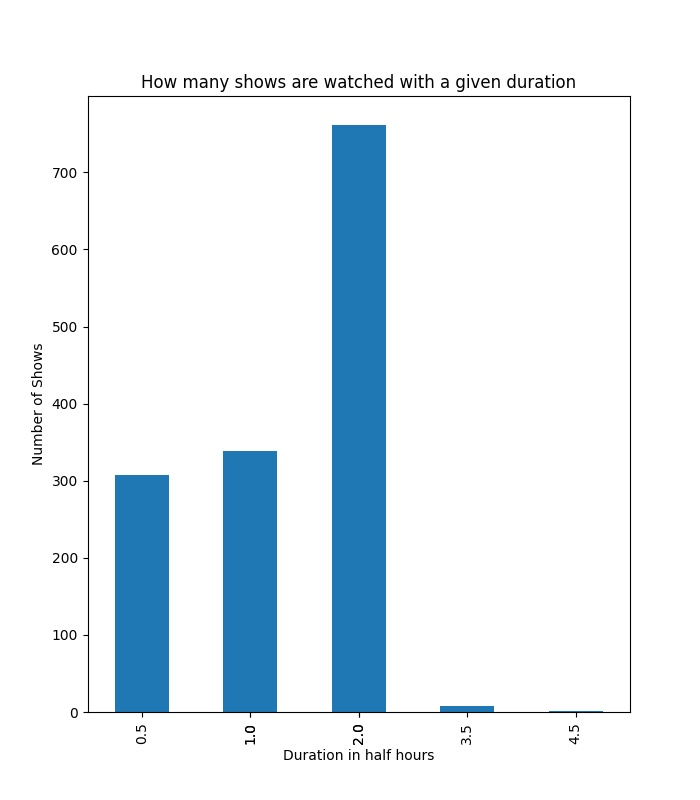
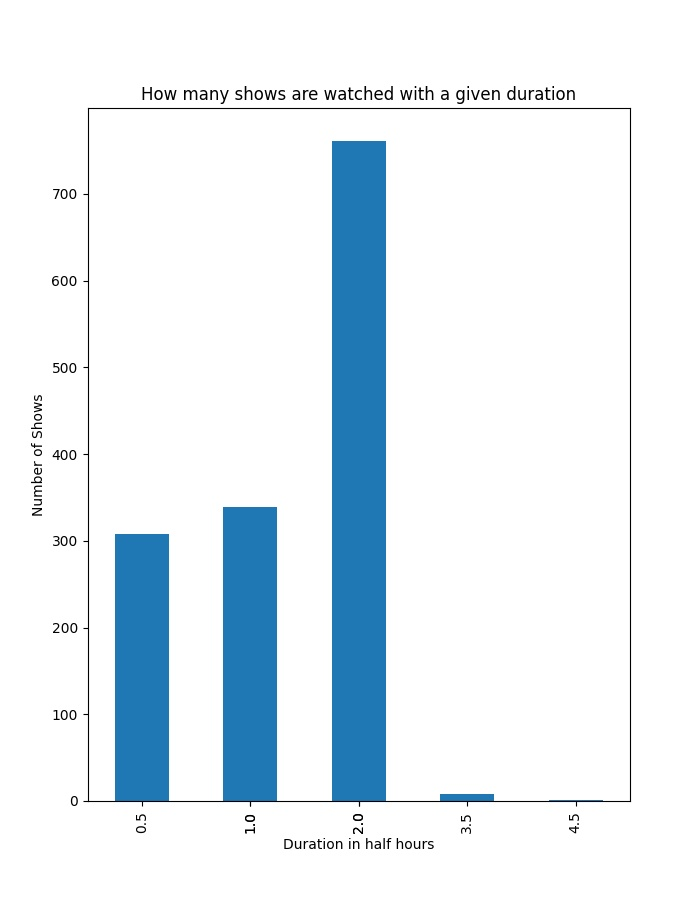
Prototype Refresh all button

diff --git a/dvrmediaanalysis.py b/dvrmediaanalysis.py
@@ -34,10 +34,11 @@ class MyWindow(QtWidgets.QMainWindow, Ui_MainWindow):
         self.speed_time_dataframe = self.set_types(self.dict_to_dataframe(self.cleanup_speed_times(self.speed_time_dict)))
         # Graph variables
         self.main_graph_dict = self.get_data_json(graph_file_name)
-        self.single_graph_labels_dict = {} # All of the variables from the graph skeleton is in here.
+        self.single_graph_labels_dict = {}  # All of the variables from the graph skeleton is in here.
         # Functions
         self.graph_options()
         self.build_graph_button.clicked.connect(self.build_graph)
+        self.build_all_graphs_button.clicked.connect(self.build_all_graphs)
         self.graph_list.clicked.connect(self.choose_graph)
 
     def graph_options(self):
@@ -219,7 +220,7 @@ class MyWindow(QtWidgets.QMainWindow, Ui_MainWindow):
         """Build a bar graph."""
         # Plot and label bar graph
         new_dataframe.fillna(0).plot(
-            kind='bar', figsize=(7, 8),
+            kind='bar', figsize=(7, 9),
             title=self.single_graph_labels_dict["Title"],
             xlabel=self.single_graph_labels_dict["X-Label"],
             ylabel=self.single_graph_labels_dict["Y-Label"])
@@ -304,6 +305,16 @@ class MyWindow(QtWidgets.QMainWindow, Ui_MainWindow):
             else:
                 # Should never reach here
                 pass
+
+    def build_all_graphs(self):
+        """Build all graphs"""
+        # print("Graph skeletons: ", self.main_graph_dict)
+        #for graph_name in self.main_graph_dict:
+            #print("Current graph: ", graph_name)
+            #self.single_graph_labels_dict.update(self.main_graph_dict[graph_name])
+            #print("Data for the current graph: ", self.single_graph_labels_dict)
+            #self.build_graph()
+            #self.single_graph_labels_dict = {}
 
 
 # This little chunk of code allows this python program to be either used directly or imported into another program
